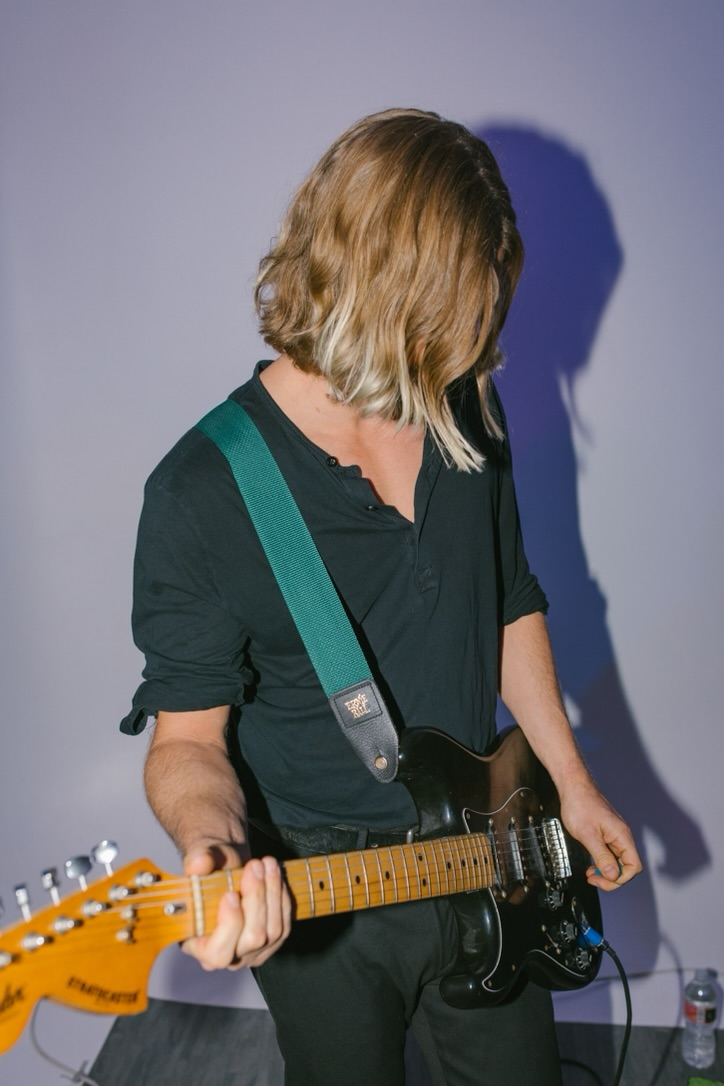
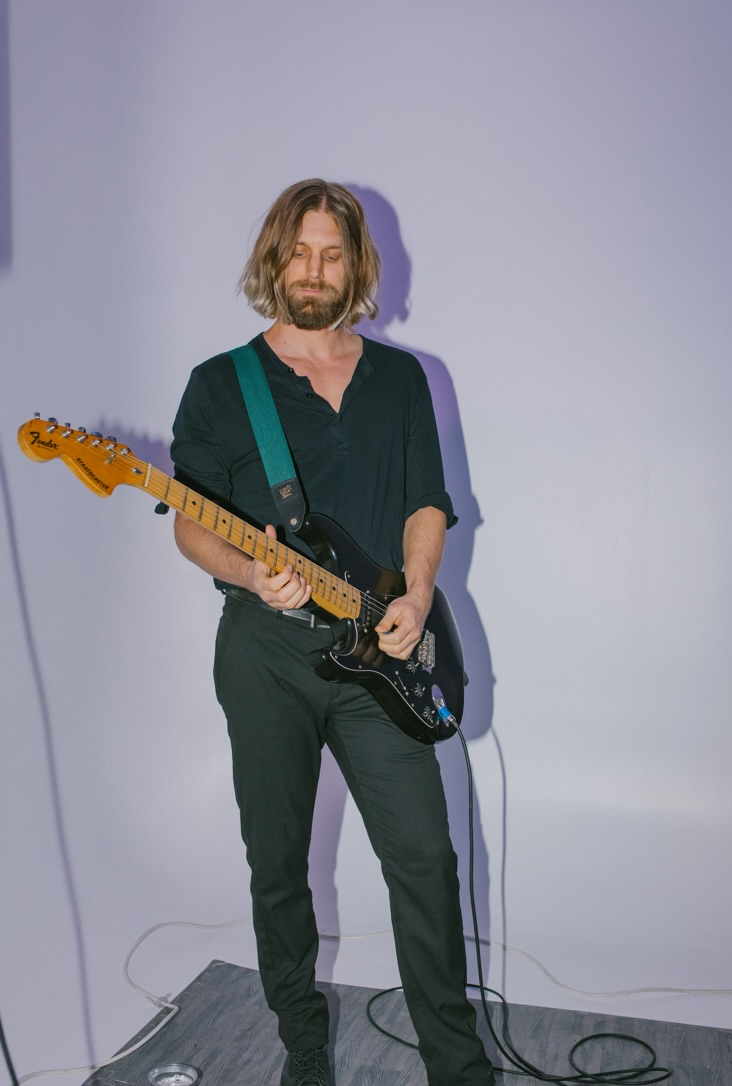
Update hero to face-forward black outfit, add booking email, expand credits.

diff --git a/index.html b/index.html
@@ -35,7 +35,7 @@
           <a class="btn secondary" href="#work">Hear work</a>
         </div>
       </div>
-      <img class="hero-photo" src="assets/hero-studio.jpeg" alt="Shelby Archer in the studio" />
+      <img class="hero-photo" src="assets/hero-studio.jpeg" alt="Shelby Archer — mixer and mastering engineer" />
     </section>
 
     <div class="proof">
@@ -99,7 +99,13 @@
 
     <section class="wrap section" id="work">
       <h2>Selected work</h2>
-      <p style="color:var(--muted);max-width:40rem;">Release credits and records from the New Beat Fund / The Fund era — including work that hit national radio, worldwide playlists, and millions of streams. A curated Mix vs Master reel is coming; this playlist is the live catalog.</p>
+      <p style="color:var(--muted);max-width:40rem;">Release credits from Capra, New Beat Fund, and The Fund era — national radio, worldwide playlists, and records with millions of streams. A personal Mix/Master Spotify playlist is coming; for now here’s the live catalog, with more credit detail rolling in from Muso.</p>
+      <ul style="color:var(--muted);max-width:40rem;line-height:1.6;">
+        <li>Capra — Hollywood Records</li>
+        <li>New Beat Fund — Red Bull Records (incl. “No Type”, “Cool Girl”; tours with Blink-182, AWOLNATION, Dirty Heads)</li>
+        <li>The Fund @ Sound City Center — writing, producing, mixing, mastering</li>
+        <li>Notable Fund-era: Tessa Violet, Zach Gordon, VALE EP, and more</li>
+      </ul>
       <div class="embed" style="margin-top:1.25rem;">
         <iframe style="border-radius:12px" src="https://open.spotify.com/embed/playlist/2TeteBphDufkLb66FPVwOk?utm_source=generator&theme=0" width="100%" height="380" frameBorder="0" allowfullscreen="" allow="autoplay; clipboard-write; encrypted-media; fullscreen; picture-in-picture" loading="lazy"></iframe>
       </div>
@@ -132,10 +138,10 @@
       <h2>Book</h2>
       <div class="card">
         <p style="margin:0 0 0.75rem;color:var(--muted);">Tell me what you need (mix, master, or both), how many songs, your deadline, and a private link to the tracks. I’ll reply with a clear quote and deposit link.</p>
-        <p style="margin:0;"><strong>Booking email:</strong> <span id="booking-email">coming right after you confirm the address</span></p>
+        <p style="margin:0;"><strong>Email:</strong> <a href="mailto:shelbyarcher@me.com">shelbyarcher@me.com</a></p>
         <p style="margin:0.75rem 0 0;color:var(--muted);font-size:0.9rem;">Send: service needed, song count, deadline, and a private link to the tracks. I’ll reply with a quote and deposit details.</p>
         <div class="cta-row">
-          <a class="btn secondary" href="#work">Meanwhile, hear the work</a>
+          <a class="btn" href="mailto:shelbyarcher@me.com?subject=Mix%20%2F%20Master%20inquiry">Email Shelby</a>
         </div>
       </div>
     </section>

diff --git a/css/styles.css b/css/styles.css
@@ -79,6 +79,7 @@ a:hover { text-decoration: underline; }
   border: 1px solid var(--line);
   aspect-ratio: 4/5;
   object-fit: cover;
+  object-position: center 15%;
   width: 100%;
   height: 100%;
 }
